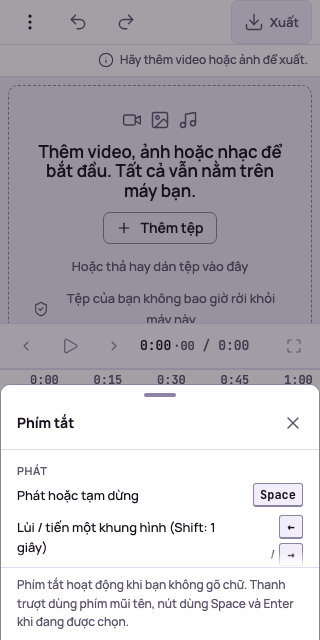
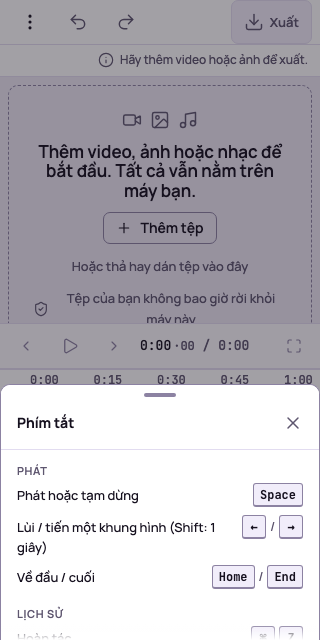
F-017: CMP-ShortcutHelp layout — key column no longer shrinks; the narrow sheet scrolls under a sticky header with the scope note last and a surface fade at the cut
Claude-Session: https://claude.ai/code/session_01Bq7VmPLAfYLmC9VGbgjiDp

Changed region(s): [[0.0312, 0.8438, 0.9688, 1.0], [0.75, 0.8125, 0.8438, 0.8438], [0.9062, 0.9688, 0.9375, 1.0]]

diff --git a/src/app/styles/shortcuts.css b/src/app/styles/shortcuts.css
@@ -49,7 +49,7 @@
 
   .tk-help__body {
     display: grid;
-    grid-template-columns: minmax(0, 1fr) minmax(0, 1.4fr) minmax(0, 1fr);
+    grid-template-columns: minmax(0, 1fr) minmax(0, 1.5fr) minmax(0, 1fr);
     gap: var(--tk-space-5);
     min-block-size: 0;
     padding: var(--tk-space-4) var(--tk-space-5);
@@ -87,7 +87,7 @@
   }
 
   .tk-help__label {
-    flex: 1 1 auto;
+    flex: 1 1 0;
     min-inline-size: 0;
     padding-block-start: var(--tk-space-0-5);
   }
@@ -95,7 +95,7 @@
   /* The key column: right-aligned, wrapping inside itself so the widest row still fits its column. */
   .tk-help__keys {
     display: flex;
-    flex: 0 1 auto;
+    flex: 0 0 auto;
     flex-wrap: wrap;
     align-items: center;
     justify-content: flex-end;
@@ -168,11 +168,13 @@
     }
   }
 
-  /* Narrow: a bottom sheet (D-038 height), one scrolling column with a fade at the cut. */
+  /* Narrow: a bottom sheet (D-038 height), one scrolling column with a fade at the cut. The whole sheet scrolls
+     under its sticky header, so the scope note comes last in the column instead of taking sheet height. */
   @container tk-editor (width < 700px) {
     .tk-help {
       inline-size: 100%;
       max-block-size: 40dvh;
+      overflow: auto;
       margin: auto 0 0;
       border-block-end: 0;
       border-radius: var(--tk-radius-md) var(--tk-radius-md) 0 0;
@@ -189,7 +191,11 @@
     }
 
     .tk-help__head {
+      position: sticky;
+      z-index: 1;
+      inset-block-start: 0;
       padding: var(--tk-space-1) var(--tk-space-1) var(--tk-space-1) var(--tk-space-4);
+      background: var(--tk-color-surface);
     }
 
     .tk-help__close {
@@ -199,18 +205,31 @@
 
     .tk-help__body {
       display: flex;
+      flex: none;
       flex-direction: column;
       gap: var(--tk-space-4);
-      padding: var(--tk-space-3) var(--tk-space-4) calc(var(--tk-space-4) + env(safe-area-inset-bottom));
-      mask-image: linear-gradient(to bottom, black calc(100% - var(--tk-space-4)), transparent);
+      padding: var(--tk-space-3) var(--tk-space-4);
+      overflow: visible;
     }
 
     .tk-help__column {
       display: contents;
     }
 
+    /* The fade at the cut: content fades into the sheet's surface at its bottom edge while it scrolls. */
+    .tk-help::after {
+      content: '';
+      position: sticky;
+      inset-block-end: 0;
+      flex: none;
+      block-size: var(--tk-space-4);
+      margin-block-start: calc(-1 * var(--tk-space-4));
+      background: linear-gradient(to bottom, transparent, var(--tk-color-surface));
+      pointer-events: none;
+    }
+
     .tk-help__scope {
-      padding: var(--tk-space-2) var(--tk-space-4) calc(var(--tk-space-2) + env(safe-area-inset-bottom));
+      padding: var(--tk-space-3) var(--tk-space-4) calc(var(--tk-space-6) + env(safe-area-inset-bottom));
     }
   }
 

diff --git a/tests/e2e/keyboard-touch.spec.ts b/tests/e2e/keyboard-touch.spec.ts
@@ -419,9 +419,12 @@ test.describe('F-017 CMP-ShortcutHelp (app harness)', () => {
       await expect(close).toBeFocused();
       const c = (await close.boundingBox())!;
       expect(Math.min(c.width, c.height)).toBeGreaterThanOrEqual(44);
-      // The list scrolls inside the sheet.
-      const body = dialog.getByRole('region', { name: text(lang, 'help.title') });
-      expect(await body.evaluate((el) => el.scrollHeight > el.clientHeight)).toBe(true);
+      // The list scrolls inside the sheet, under its header; the scope note comes last.
+      expect(await dialog.evaluate((el) => el.scrollHeight > el.clientHeight)).toBe(true);
+      await dialog.evaluate((el) => (el.scrollTop = el.scrollHeight));
+      await expect(dialog.getByText(text(lang, 'help.scope'))).toBeInViewport();
+      await expect(close).toBeInViewport();
+      await dialog.evaluate((el) => (el.scrollTop = 0));
       await axe(page);
       await shot(page, `help-narrow-${lang}`, browserName);
       await close.click();
